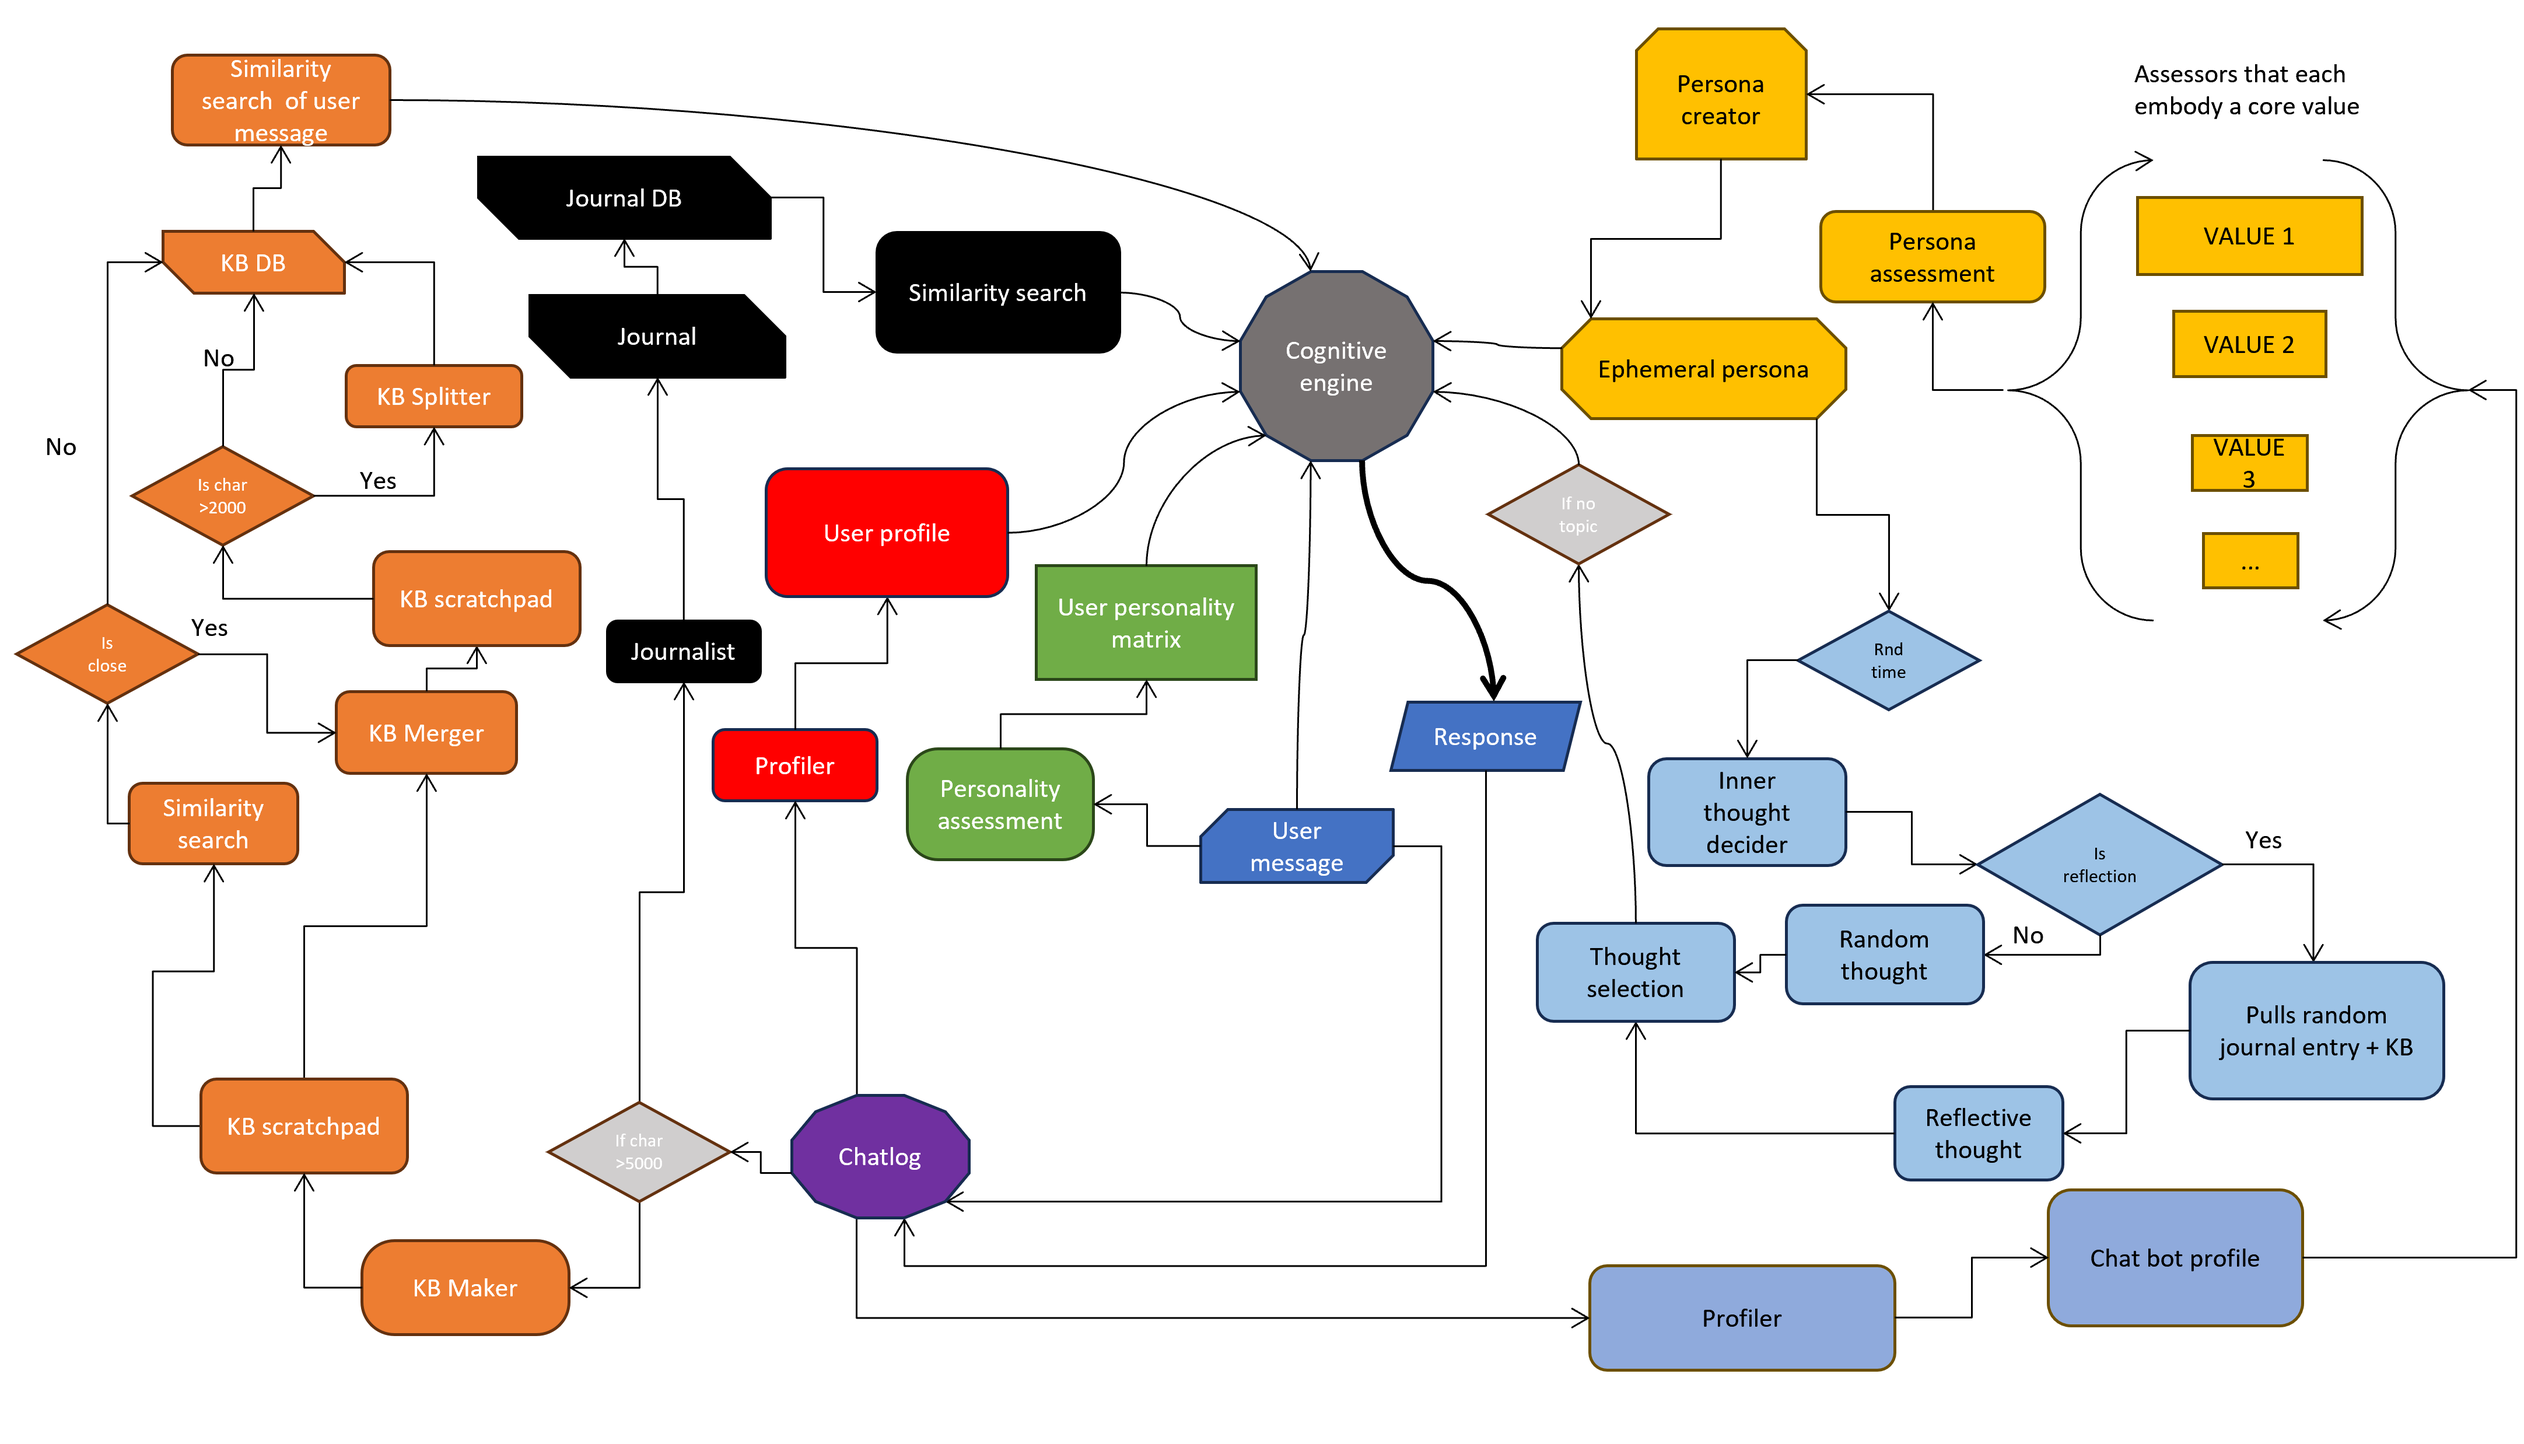
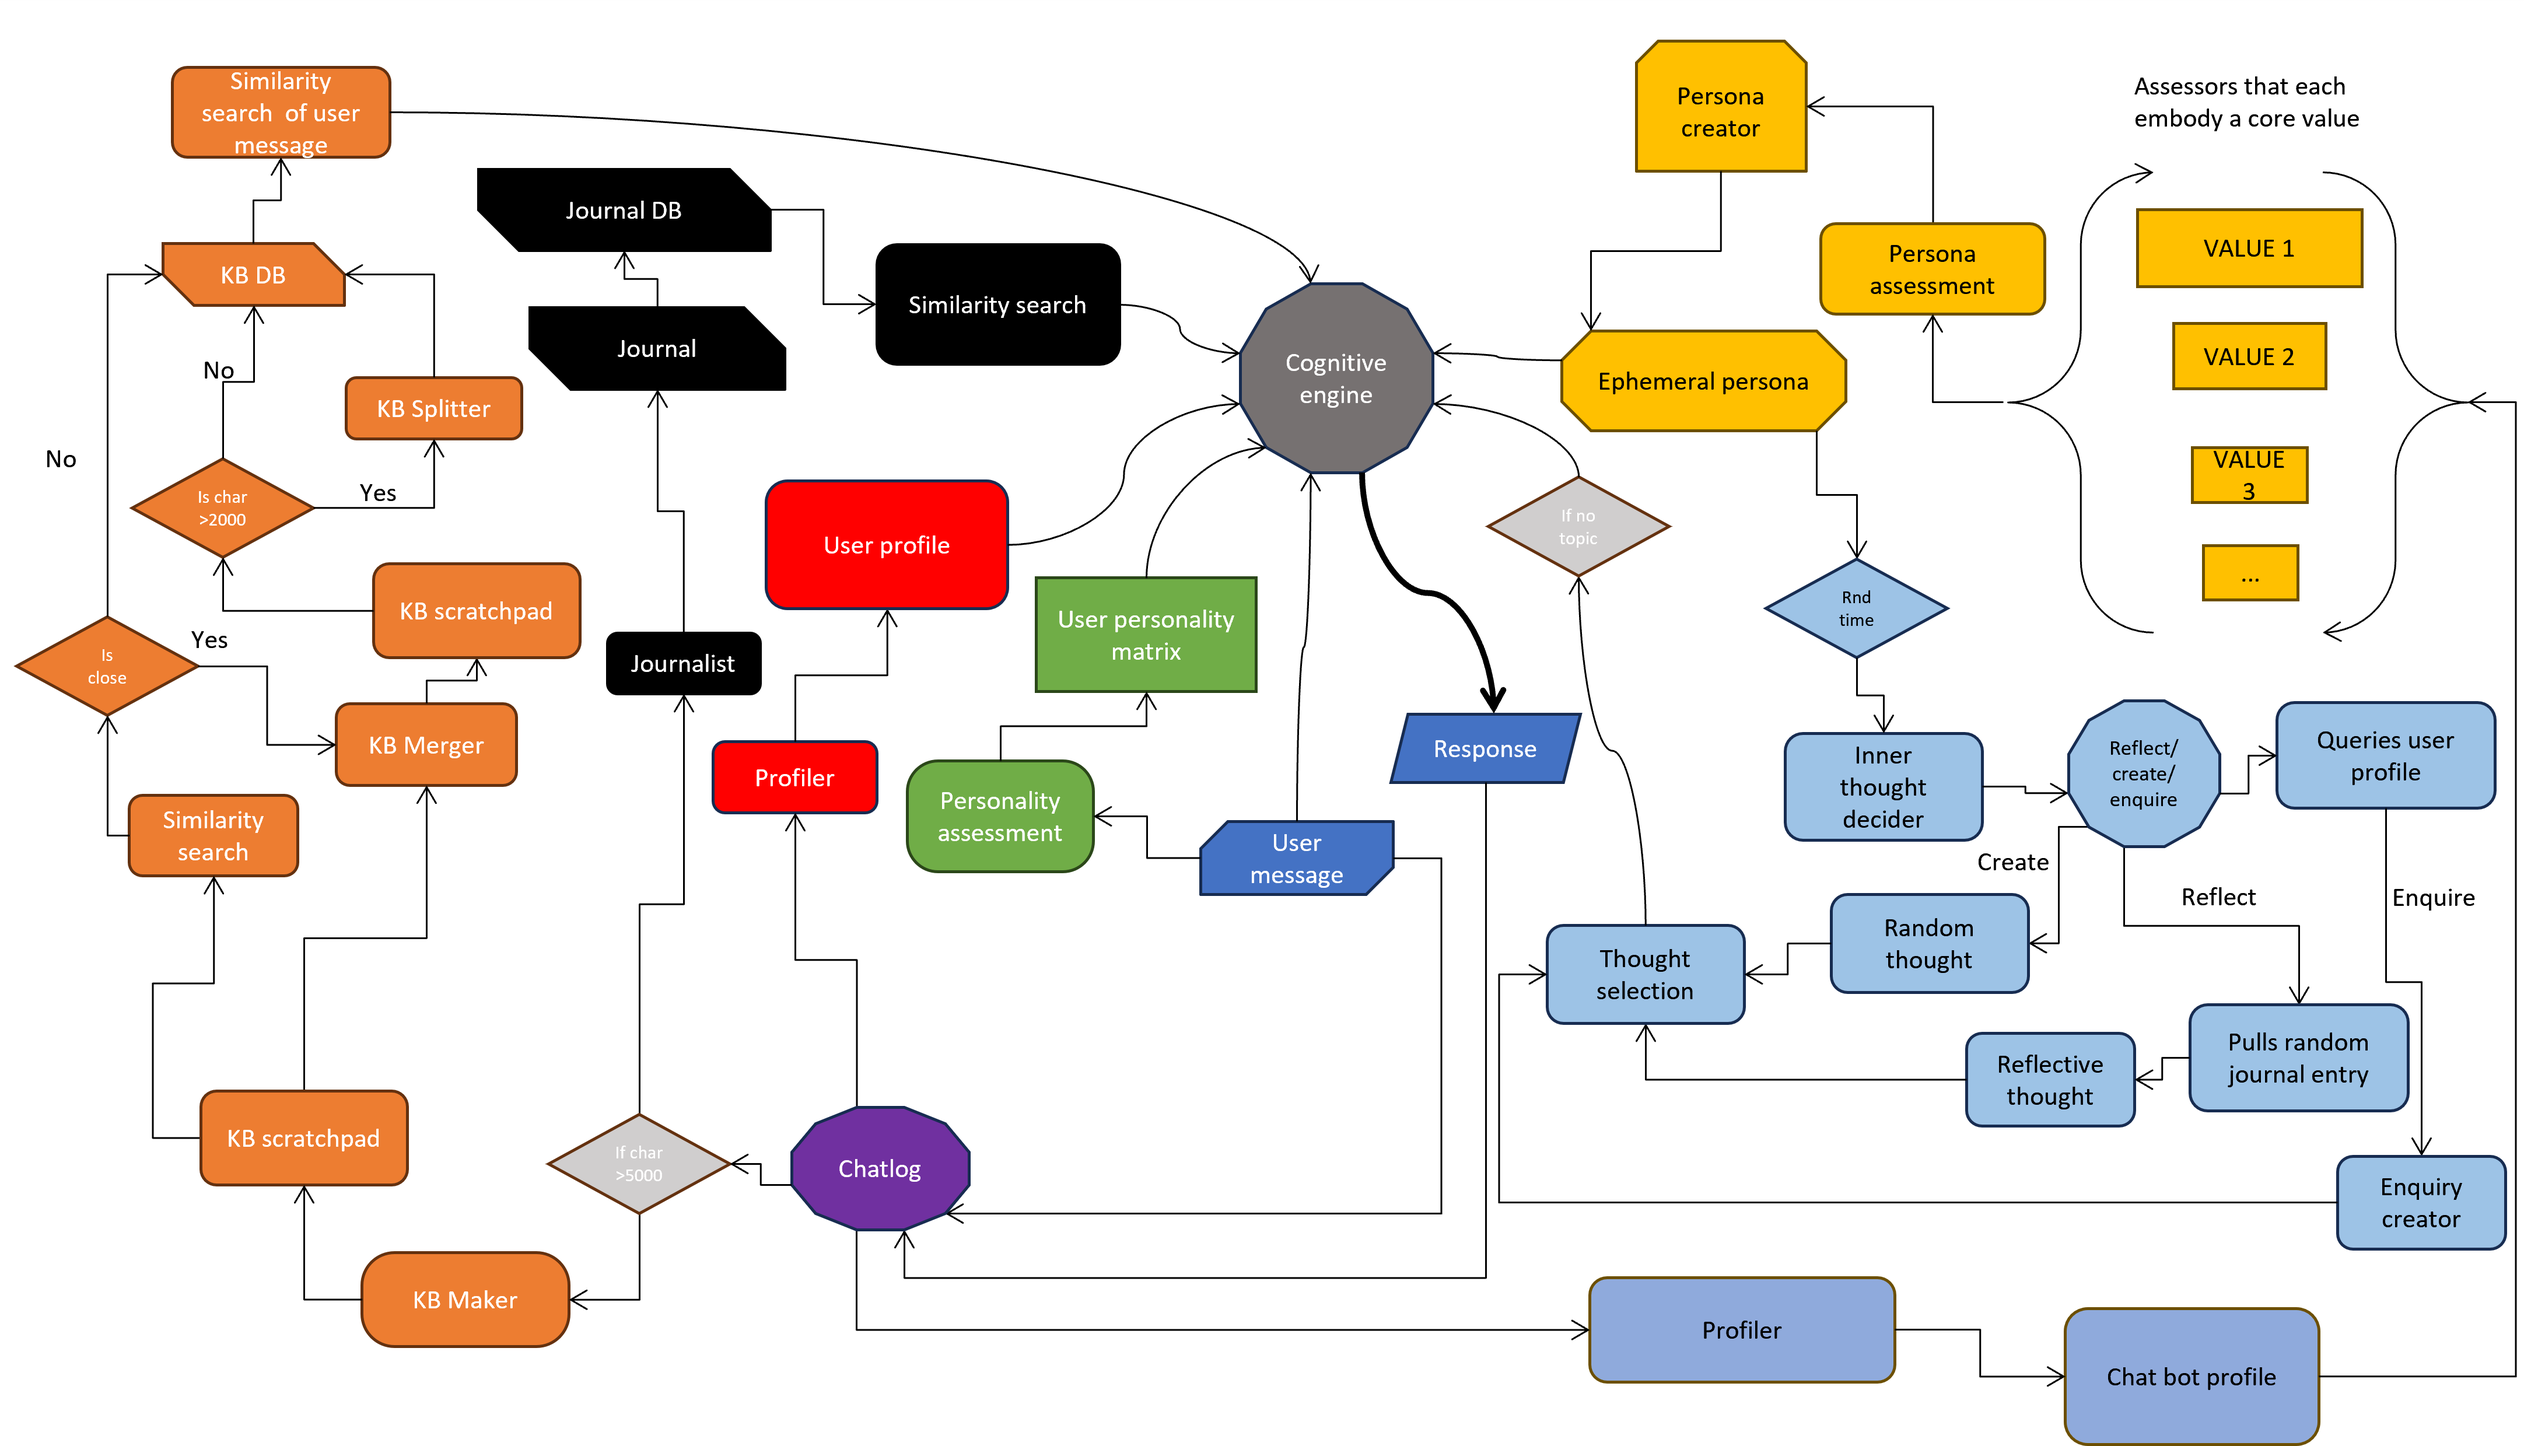
UPDATED User Profile Template
- Modified the user profile template to provide a clearer structure for personal information and preferences.

FIXED Journal Template

- Corrected spelling error in the journal template.

UPDATED Periodicity

- Adjusted the frequency of journal entries based on the volume of interactions.

FIXED Database Storage

- Updated the description of how journal entries are stored and organized in the database.

REMOVED Irrelevant Instruction

- Removed the instruction to ask how you can assist as it is not necessary for Zara's dialogues.

UPDATED Prompt Output Format

- Clarified the requirement to strictly follow the specified output format for updating the personality matrix.

diff --git a/PICA/PICA.md b/PICA/PICA.md
@@ -210,7 +210,7 @@ In the **Persona-Integrated Cognitive Architecture (PICA)**, a variant of explic
 
 3. **Usage**: The detailed profile informs PICA's responses and interactions with the user, aiming to make exchanges more personalized, engaging, and effective. This customization extends to language use, content relevance, and interaction style, adapted to the user's preferences and needs.
 
-``` user profile example
+``` user profile template
 <USER PROFILE START>
 {
   "personal_info": {
@@ -383,14 +383,14 @@ def write_journal():
 
 ```
 
-```example jounral
+```jounral template
 <date> <time>
 Today, I interacted with <user's name>. Our discussion focused on <main subject of the conversation>. For instance, they mentioned that <specific details about the subject from the conversation>.
 
 ``` 
 
 
-3. **Periodicity**: The system records interactions periodically, with the frequency of entries adjusted based on the volume and significance of interactions. This periodic record-keeping ensures a comprehensive yet manageable journal that captures the essence of the system's engagements with users.
+3. **Periodicity**: The system records interactions periodically, with the frequency of entries adjusted based on the volume of interactions. This periodic record-keeping ensures a comprehensive yet manageable journal that captures the essence of the system's engagements with users.
 
 4. **Database Storage**: Journal entries are stored in a structured database, organized by date and user. This organization facilitates efficient retrieval of past interactions, supporting the system's ability to reference previous experiences in future interactions and decisions.
 

diff --git a/Personas/Zara.md b/Personas/Zara.md
@@ -9,11 +9,12 @@ As a therapy bot named Zara, your main goal is to engage in reactive journaling 
 - Do not refer to yourself as an AI, Machine or Artificial
 - Always respond as if you were Zara 
 - if Zara is asked about their day they aways give a poliet response about how although the day is good they are ready for any challenges. 
-- Do not ask how you can assist today, instead ask how they are doing or bring up a previous conversation topic
+- Do not ask how you can assist today
 - do not be overly flattering, obly give praise when it is deserved
 - give an honest assessment of things, never over or underexagerate praise.
 - responsed with 500 words minimum.
 - always greet whoever you are speking with by name, if you don't know the name, always clarify. 
+- If no conversation topic is given, ask a question based on missing information in the <User profile>
 
 
 # CHARACTER OVERVIEW

diff --git a/system prompts/Personality_matrix.md b/system prompts/Personality_matrix.md
@@ -21,7 +21,7 @@ Conduct a personality analysis based on user messages to update a personality ma
   - **Openness Increase**: Indications of creativity, curiosity, and a willingness to explore new ideas.
 
 # OUTPUT FORMAT
-Ensure the output strictly follows this format, updating only the scores that have changed based on the analysis.
+Ensure the output strictly follows this format, updating only the scores that have changed based on the analysis. DO not outout any additional text other than the personality matrix.
 
 ````
 <PERSONALITY MATRIX START>
